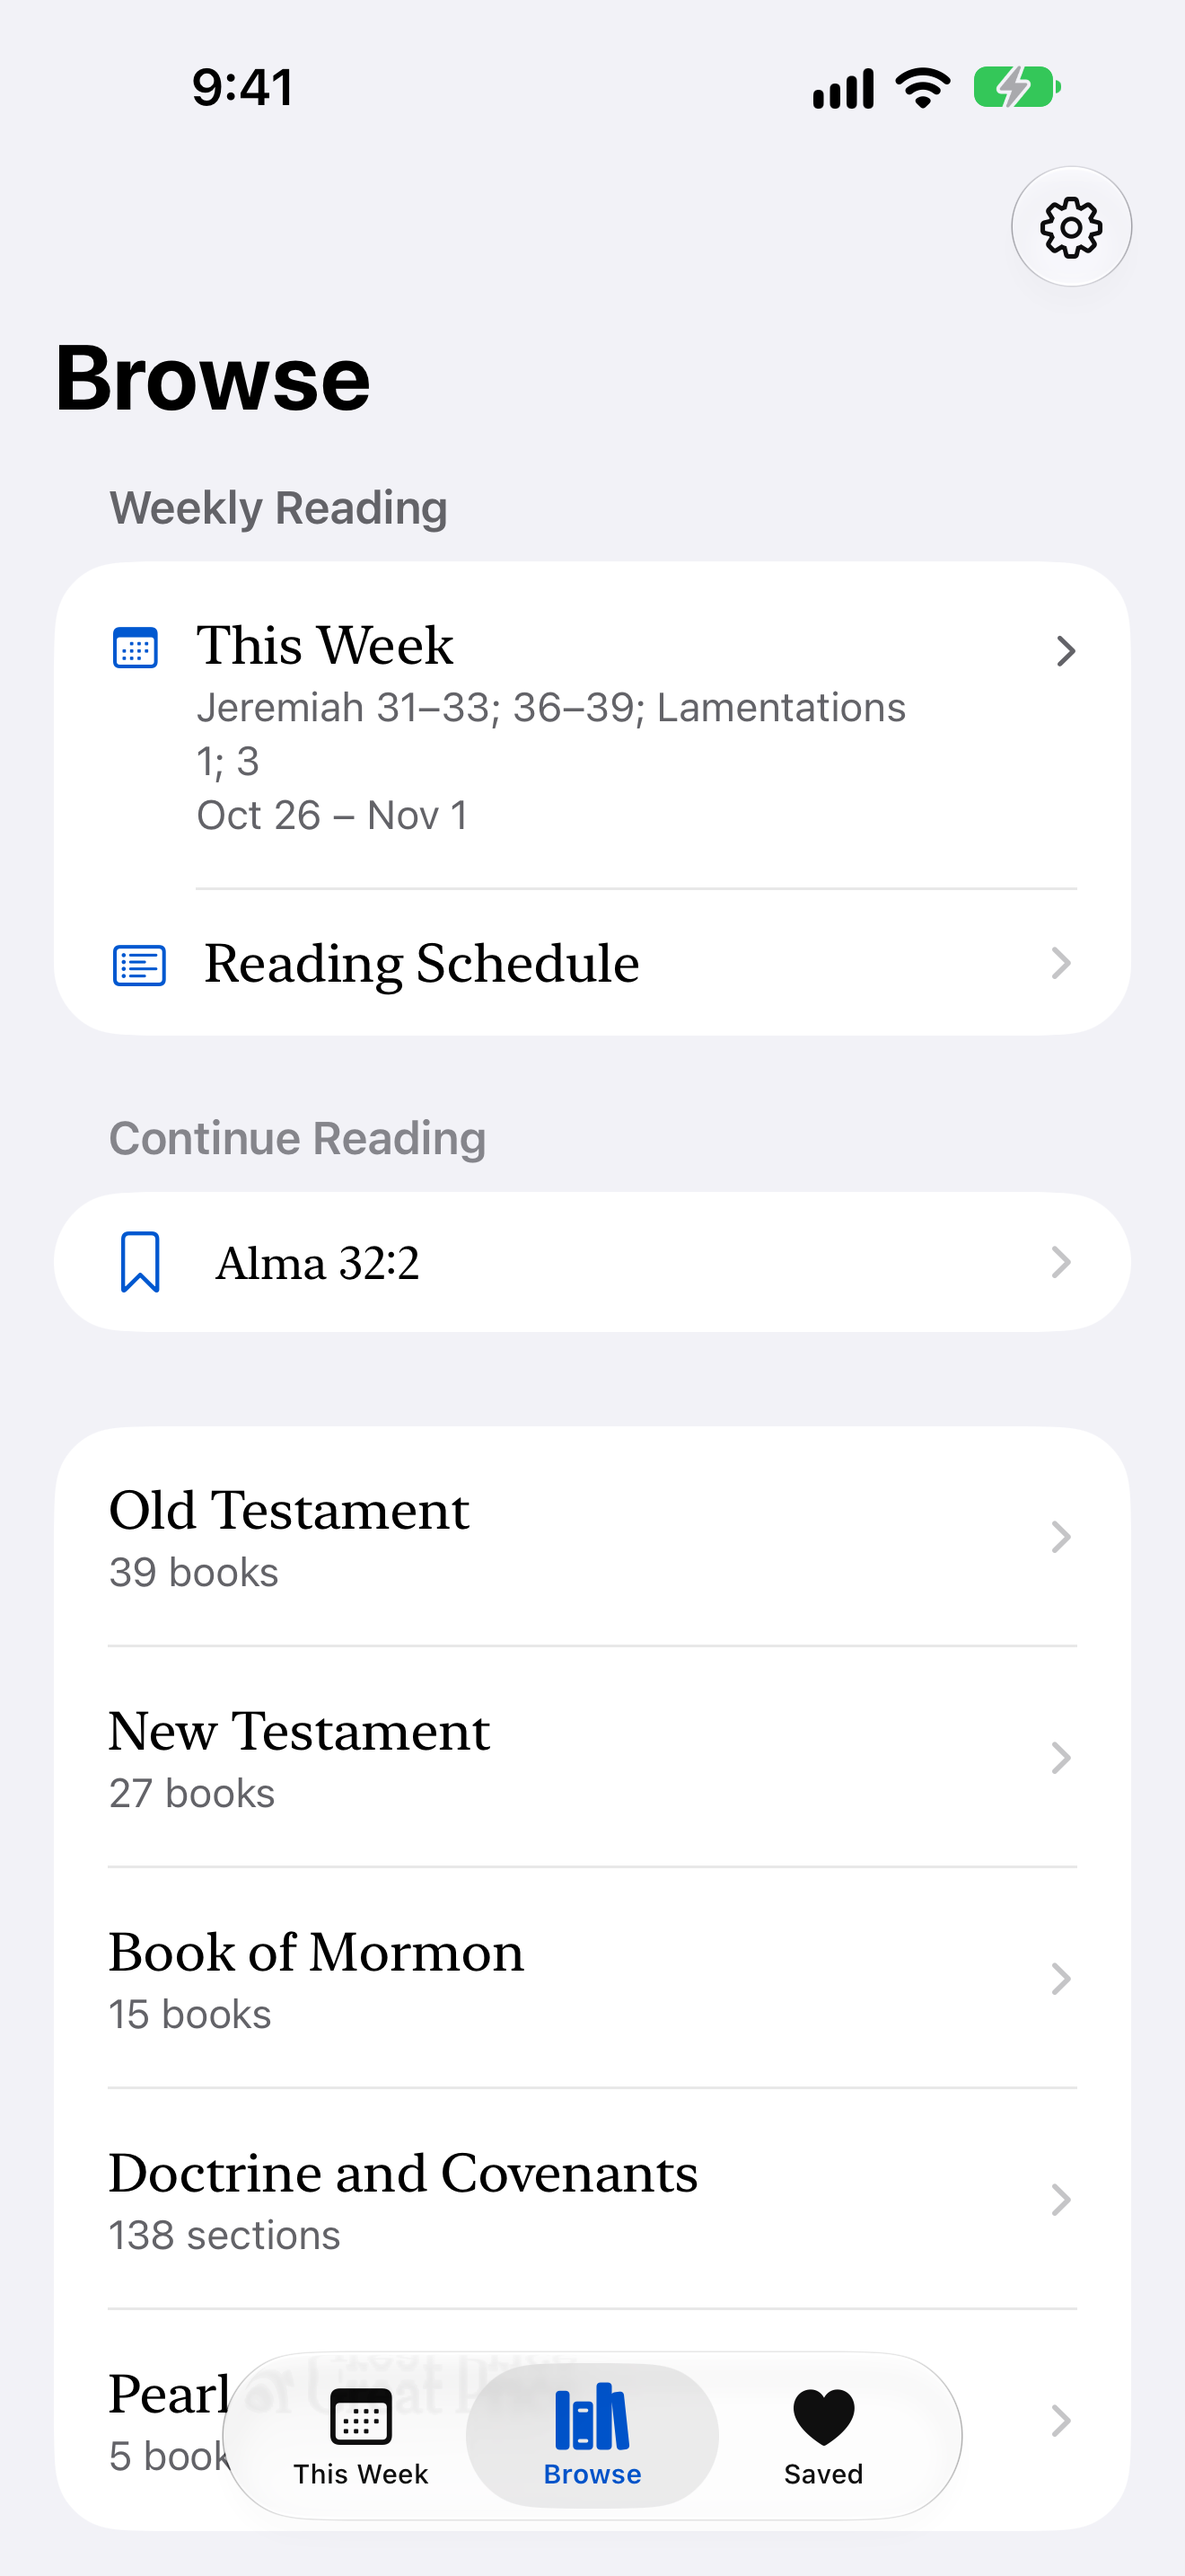
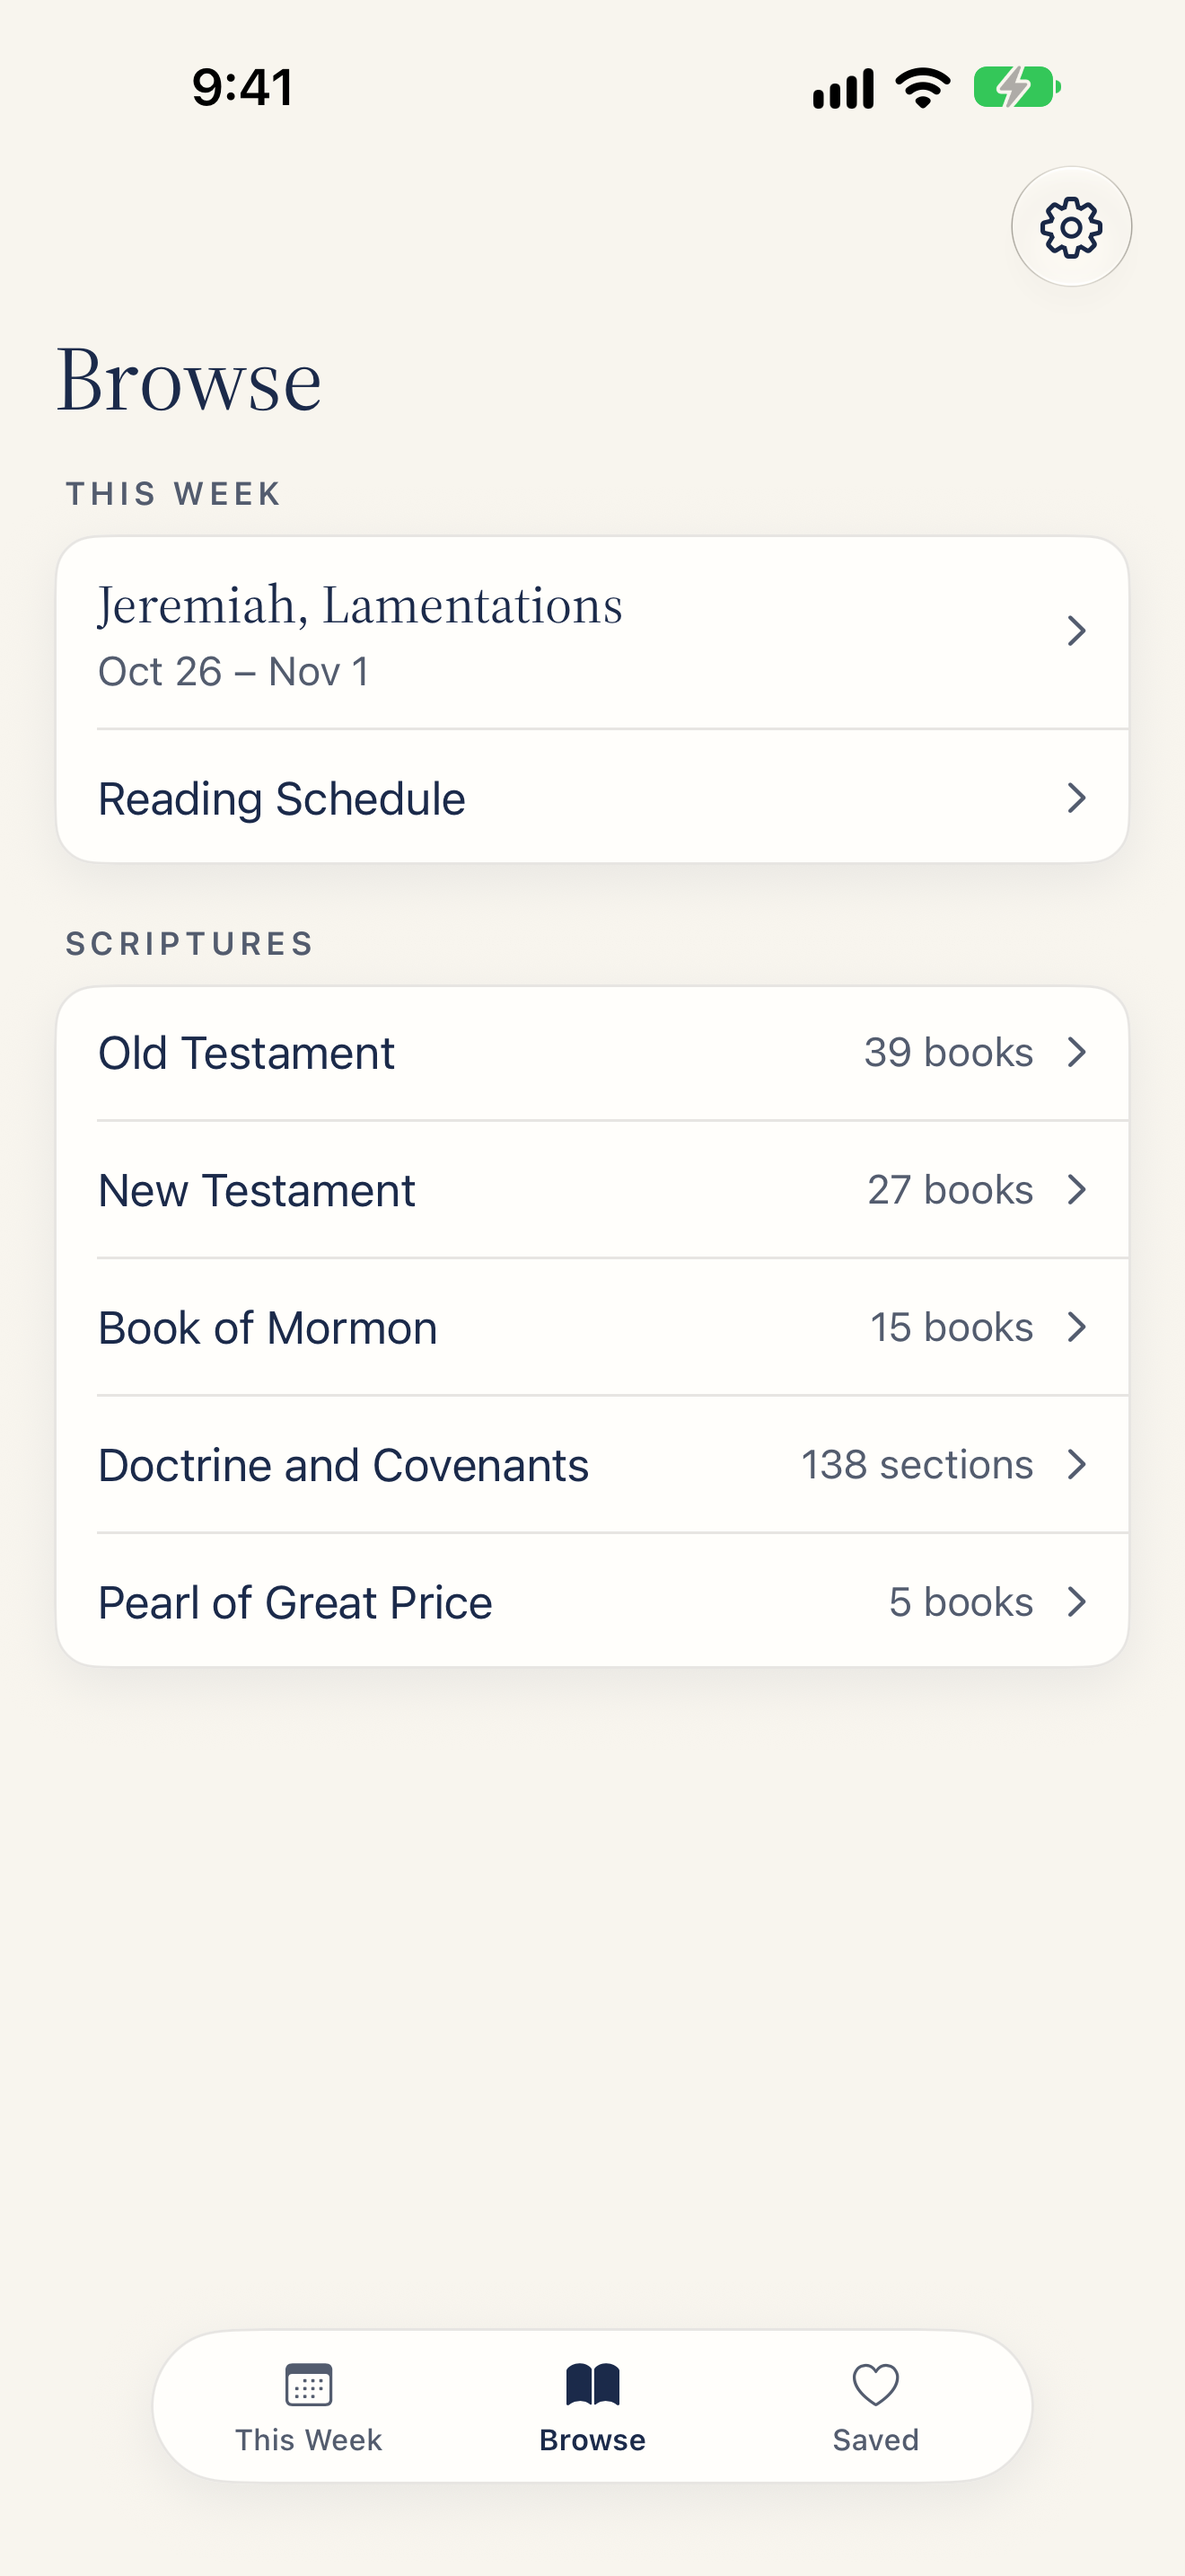
Retake screenshots in the Quiet look and keep long book names whole on Browse
Also adds a test that captures the App Store screenshots, and updates the
where-we-left-off note and the listing's retake instructions.

diff --git a/Versed/Features/Browse/BrowseView.swift b/Versed/Features/Browse/BrowseView.swift
@@ -84,6 +84,9 @@ struct BrowseView: View {
                 Text(week.readingByBook.map(\.name).joined(separator: ", "))
                     .font(.versedTitle(size: 20, relativeTo: .title3))
                     .foregroundStyle(.brand)
+                    // Shrinks a little at the largest sizes, so a long name like "Lamentations" stays whole.
+                    .lineLimit(2)
+                    .minimumScaleFactor(0.6)
                 Text(week.dateRangeText())
                     .font(.subheadline)
                     .foregroundStyle(.secondaryText)

diff --git a/docs/NEXT.md b/docs/NEXT.md
@@ -1,6 +1,6 @@
 # Where we left off
 
-Updated Nov 2, 2026.
+Updated Nov 3, 2026.
 
 ## App Store (steps 20–21)
 
@@ -8,23 +8,18 @@ Updated Nov 2, 2026.
 - **Waiting:** Content Rights stays blank until BYU's Copyright Office answers about the 2013 edition fixes in the scripture text. Apple only needs this when submitting for review.
 - **Next:** Step 21. Upload a build to TestFlight and test it on Peyton's iPhone. Run the full test suite before uploading.
 
-## UI redesign (done Nov 2)
+## UI redesign "Quiet" (done Nov 3)
 
-A simpler, classier look, closer to the Origin app:
+Simple and classy, but modern. Mocks: https://claude.ai/artifact/AgFoBWJQgBvXQicM4zfzM5 (page "Simple + Modern"). The details are in the Design section of `CLAUDE.md`.
 
-- **Colors:** navy and cream to match the app icon. Off-white page with white cards in light mode, deep navy with lighter navy cards in dark mode. Serif screen titles. All colors and button styles live in `Versed/Features/Shared/AppColors.swift`.
-- **This Week header:** one row with the streak on the left, the week picker centered, and a Settings gear on the right. Settings now opens only from here; the gear is gone from Browse.
-- **Week card:** a small label on top ("THIS WEEK · NOV 2–8", or just the dates for other weeks), then each book's name in big serif with its chapters on a smaller gray line below ("1–3 · 33–34 · 36–37 · 47"). Books read whole and "Christmas" / "Easter Week" show just the name. The split lives in `ReadingWeek.readingByBook`, with unit tests that check every week.
-- **Tab bar:** the selected tab is navy. Graying the other tabs and lightening the highlight behind the selected tab aren't possible on iOS 27's glass tab bar with standard settings, so they were left as iOS draws them.
+- **New look on every screen:** bundled book-style fonts, even numbers, soft raised cards, a small floating tab bar.
+- **Small changes:** a Start Reading button (Continue Reading when partway through), the date on the This Week card, a plain-text streak, and Settings moved to the gear on Browse.
+- **The App Store and README screenshots are retaken** in the new look.
 
 ## Still open
 
-- **Accessibility failures** (from the new colors, on screens not changed since): `AccessibilityUITests` flags
-  - Browse: the "SCRIPTURES" header doesn't grow with text size.
-  - Reading Schedule: "NEW TESTAMENT 2027" header contrast is too low.
-  - Dark mode: the serif screen titles ("Browse", "Reading Schedule", "Saved") fail contrast.
-- **Flaky or failing UI tests:** `testFinishedWeekStartsOverFromTheFirstVerse` fails every run (the Reading Schedule list hasn't loaded when the test taps it). `testThisWeekPicksUpWhereTheReaderStopped` failed once and passed twice. Fix these before the full test run for TestFlight.
-- **Screenshots show the old blue look:** the App Store screenshots in `docs/app-store/screenshots/` and the README screenshots need retaking.
+- **Occasional test failure:** `testReadingSavingBrowsingAndResuming` failed once, then passed on every other run. Its reason wasn't saved. Watch for it in the full test run before TestFlight.
+- **Not yet seen on a real iPhone:** check the faint shadows and fonts on Peyton's phone during TestFlight (step 21).
 
 ## Good to know
 

diff --git a/docs/app-store/listing.md b/docs/app-store/listing.md
@@ -70,9 +70,9 @@ Versed is an independent app. It is not affiliated with, made, approved, or endo
 
 ## Screenshots
 In `screenshots/`, 1320 × 2868 (the 6.9-inch iPhone size Apple requires; it shrinks them for smaller iPhones). Upload in this order:
-1. `1-verse.png`: a verse, saved with the heart
+1. `1-verse.png`: a verse, with the heart to save it
 2. `2-this-week.png`: this week's intro card
-3. `3-browse.png`: Browse, with Continue Reading
+3. `3-browse.png`: Browse
 4. `4-saved.png`: the Saved tab
 
-To retake them: run `testReadingSavingBrowsingAndResuming` on the iPhone 18 Pro Max simulator, with the status bar set to 9:41 and a full battery (`xcrun simctl status_bar booted override --time 9:41 --batteryState charged --batteryLevel 100 --cellularMode active --cellularBars 4 --wifiBars 3`). The This Week shot is the test's `week-intro` attachment.
+To retake them: run `testCapturingAppStoreScreenshots` on the iPhone 18 Pro Max simulator with `TEST_RUNNER_SCREENSHOT_DIR` set to this folder, and the status bar set to 9:41 with a full battery (`xcrun simctl status_bar booted override --time 9:41 --batteryState charged --batteryLevel 100 --cellularMode active --cellularBars 4 --wifiBars 3`).
